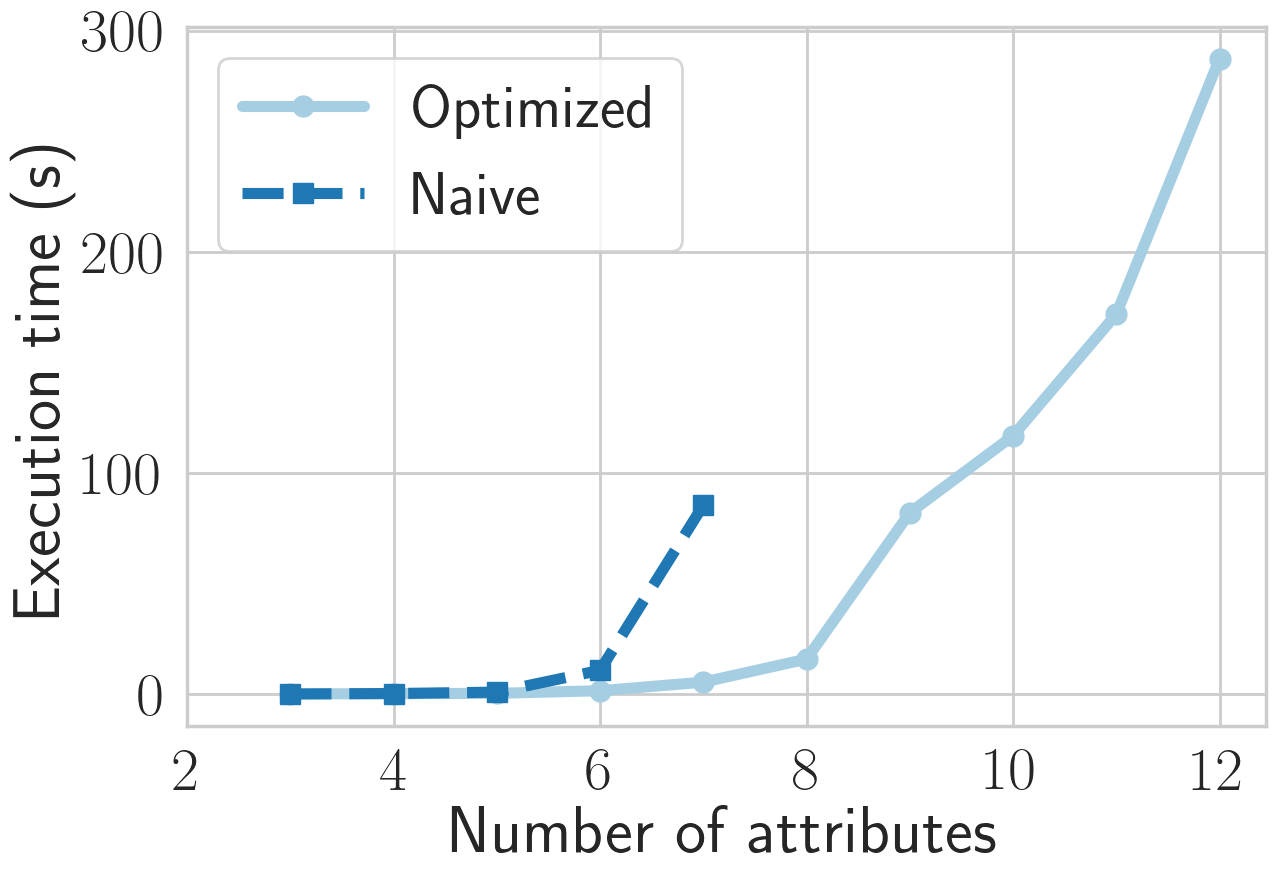
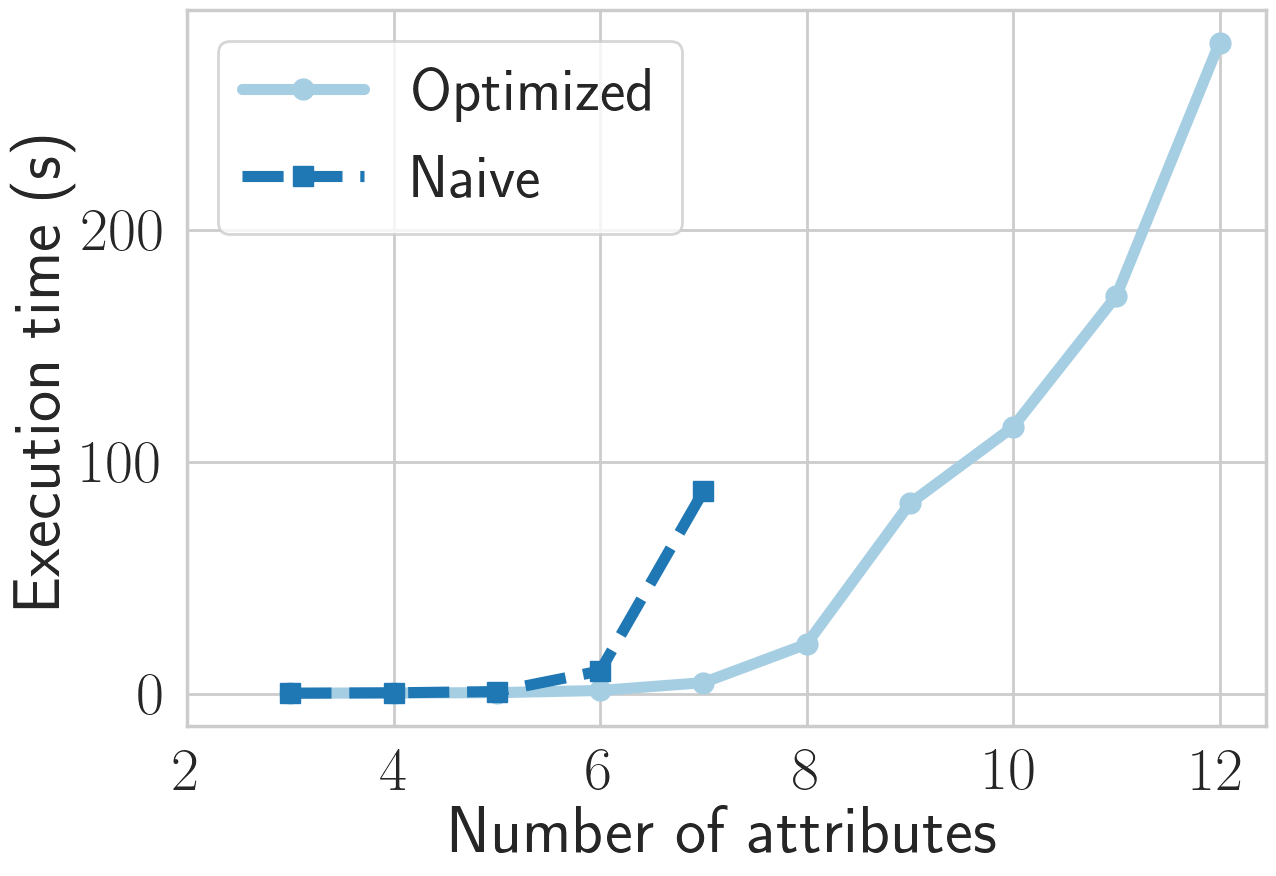
general, adult data, num att

diff --git a/Coding/Experiments/General_FP/AdultData/num_attributes_3_20211020.py b/Coding/Experiments/General_FP/AdultData/num_attributes_3_20211020.py
@@ -233,14 +233,14 @@ output_file.write("execution time\n")
 for n in range(num_att_min, num_att_max_naive):
     output_file.write('{} {} {}\n'.format(n, execution_time1[n-num_att_min], execution_time2[n-num_att_min]))
 for n in range(num_att_max_naive, num_att_max):
-    output_file.write('{} {}\n'.format(n, execution_time1[n - num_att_max_naive]))
+    output_file.write('{} {}\n'.format(n, execution_time1[n - num_att_min]))
 
 
 output_file.write("\n\nnumber of patterns checked\n")
 for n in range(num_att_min, num_att_max_naive):
     output_file.write('{} {} {}\n'.format(n, num_calculation1[n-num_att_min], num_calculation2[n-num_att_min]))
 for n in range(num_att_max_naive, num_att_max):
-    output_file.write('{} {}\n'.format(n, num_calculation1[n-num_att_max_naive]))
+    output_file.write('{} {}\n'.format(n, num_calculation1[n-num_att_min]))
 
 
 
